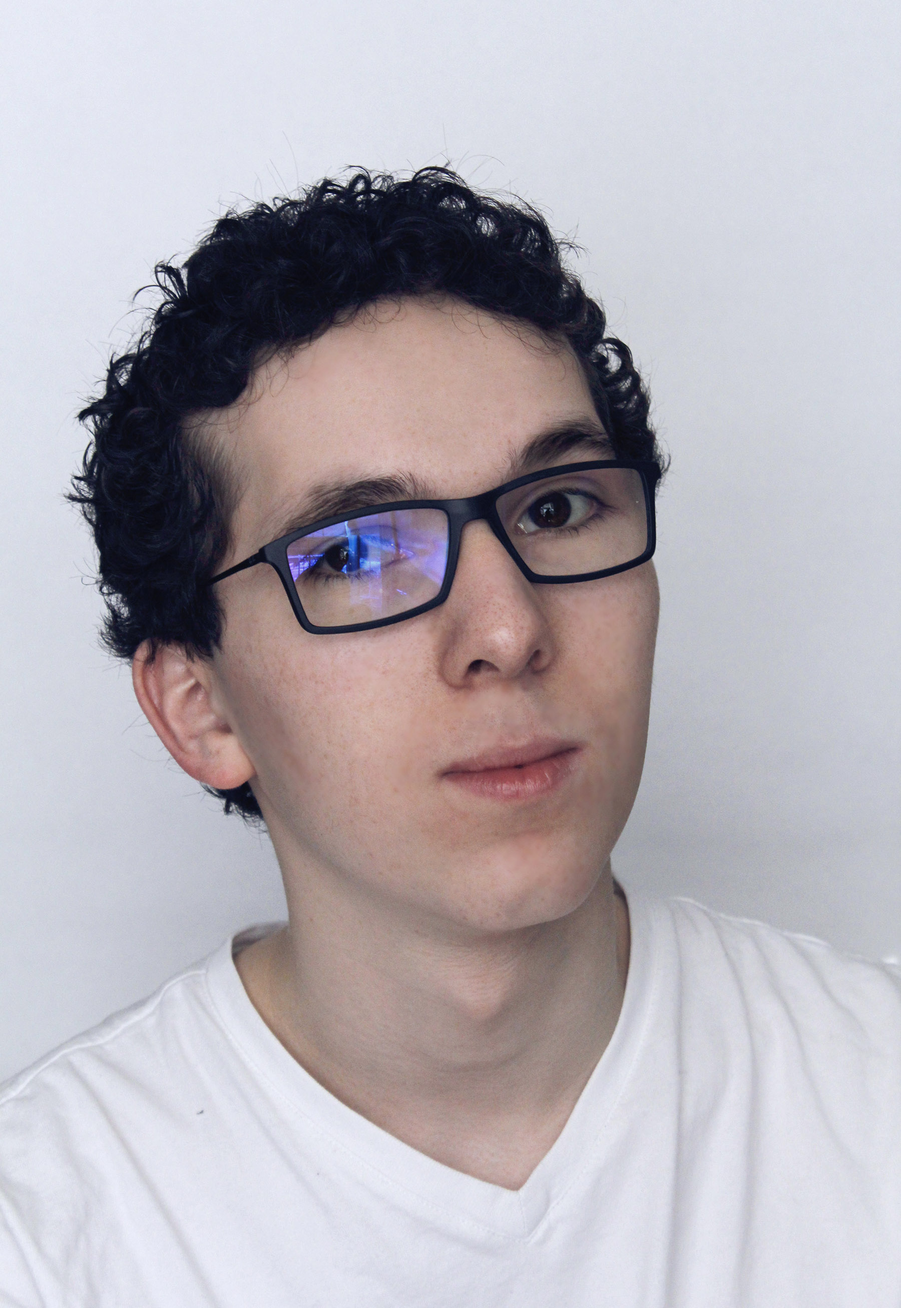
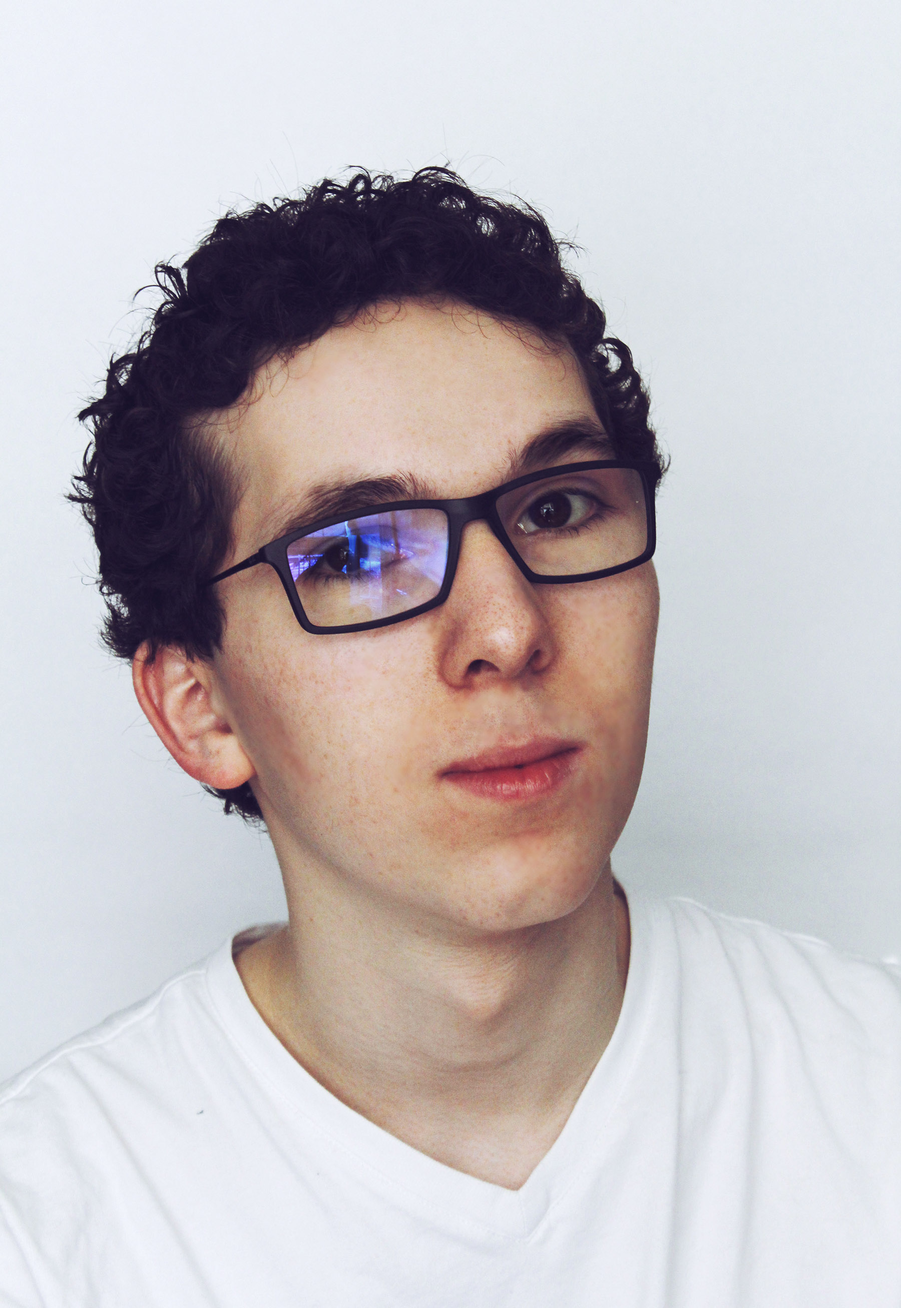
Commit 35
Change portrait photo. Fix background image on high pixel density
displays. Fix popup scrolling on phone landscape mode. Fix text reflow in
footer on small displays. Layout tweaks.

diff --git a/about.html b/about.html
@@ -67,8 +67,8 @@
                 <aside class="page-content-aside">
                     <picture><source srcset="img/portrait/portrait.jpg, img/portrait/portrait-3x.jpg 2x" /><img class="page-content-aside-portrait" src="img/portrait/portrait.jpg" alt="portrait" /></picture>
                     <section class="page-content-aside-contact">
-                        E: <a class="page-content-aside-contact-detail page-content-aside-contact-detail_encrypt-unicode" href="&#109;&#97;&#105;&#108;&#116;&#111;&#58;&#105;&#115;&#97;&#97;&#99;&#46;&#109;&#97;&#105;&#108;&#97;&#99;&#104;&#64;&#103;&#109;&#97;&#105;&#108;&#46;&#99;&#111;&#109;">&#105;&#115;&#97;&#97;&#99;&#46;&#109;&#97;&#105;&#108;&#97;&#99;&#104;&#64;&#103;&#109;&#97;&#105;&#108;&#46;&#99;&#111;&#109;</a><br />
-                        T: <a class="page-content-aside-contact-detail page-content-aside-contact-detail_encrypt" href="&#116;&#101;&#108;&#58;&#43;&#49;&#54;&#52;&#55;&#51;&#48;&#51;&#51;&#51;&#49;&#48;">&#48;&#49;&#51;&#51;&#45;&#51;&#48;&#51;&#32;&#40;&#55;&#52;&#54;&#41;</a>
+                        E: <a class="page-content-aside-contact-detail" href="&#109;&#97;&#105;&#108;&#116;&#111;&#58;&#105;&#115;&#97;&#97;&#99;&#46;&#109;&#97;&#105;&#108;&#97;&#99;&#104;&#64;&#103;&#109;&#97;&#105;&#108;&#46;&#99;&#111;&#109;">&#105;&#115;&#97;<span style="display: none;">email</span>&#97;&#99;&#46;&#109;&#97;&#105;&#108;&#97;&#99;&#104;&#64;&#103;<span style="display: none;">email</span>&#109;&#97;&#105;&#108;&#46;&#99;&#111;&#109;<span style="display: none;">email</span></a><br />
+                        T: <a class="page-content-aside-contact-detail" href="&#116;&#101;&#108;&#58;&#43;&#49;&#54;&#52;&#55;&#51;&#48;&#51;&#51;&#51;&#49;&#48;">&#40;&#54;&#52;&#55;&#41;<span style="display: none;">telephone</span>&#32;&#51;&#48;&#51;&#45;&#51;<span style="display: none;">telephone</span>&#51;&#49;&#48;</a>
                     </section>
                 </aside>
                 <section class="page-content-about">
@@ -81,8 +81,8 @@
                 <nav class="page-footer-nav">
                     <a class="page-footer-nav-link" href="index.html">Musical Compositions</a>
                     <a class="page-footer-nav-link" href="about.html">About</a>
-                    <div class="page-footer-nav-logo">IM</div>
                 </nav>
+                <h3 class="page-footer-logo">IM</h3>
                 <p class="page-footer-text">Copyright &copy; Isaac Mailach</p>
             </footer>
         </div>

diff --git a/css/global.css b/css/global.css
@@ -158,22 +158,33 @@ a {
     position: relative;
     text-align: center;
 }
+.page-footer-logo {
+    bottom: 50px;
+    font-size: 2.5rem;
+    font-weight: 400;
+    left: 0;
+    margin: 0;
+    position: absolute;
+    right: 0;
+}
 .page-footer-nav {
     font-size: 1.05rem;
-    line-height: 75px;
+    line-height: 25px;
+    left: 0;
+    margin: 0;
+    position: absolute;
+    right: 0;
+    top: 50px;
 }
 .page-footer-nav-link {
     margin: 12px;
     text-transform: uppercase;
 }
-.page-footer-nav-logo {
-    font-size: 2.5rem;
-}
 .page-footer-text {
-    bottom: 0;
+    bottom: 20px;
     font-size: 0.9rem;
     left: 0;
-    margin: 0 0 20px 0;
+    margin: 0;
     opacity: 0.5;
     position: absolute;
     right: 0;
@@ -442,12 +453,12 @@ a {
     /*transition: margin 0.27s cubic-bezier(0.4, 0, 0.2, 1);*/
 }
 
-@media (min-width: 700px) and (-webkit-min-device-pixel-ratio: 2), (min-resolution: 192dpi), (min-resolution: 2dppx) { 
+@media (min-width: 700px) and ((-webkit-min-device-pixel-ratio: 2), (min-resolution: 192dpi), (min-resolution: 2dppx)) { 
     body {
         background-image: url('../img/background/background-3x.png');
     }
 }
-@media (max-width: 700px) and (-webkit-min-device-pixel-ratio: 2), (min-resolution: 192dpi), (min-resolution: 2dppx) {
+@media (max-width: 700px) and ((-webkit-min-device-pixel-ratio: 2), (min-resolution: 192dpi), (min-resolution: 2dppx)) {
     body {
         background-image: url('../img/background/background-small-3x.png');
     }
@@ -503,12 +514,12 @@ a {
         padding: 0;
     }
     .open .popup-content {
-        height: 100%;
+        min-height: 100%;
     }
 }
 @media (max-width: 725px) {
     .page-content {
-        padding: 50px 5px 200px 5px;
+        padding: 50px 5px 100px 5px;
     }
     .page-content-grid-item {
         flex-shrink: 1 !important;

diff --git a/index.html b/index.html
@@ -78,8 +78,8 @@
                 <nav class="page-footer-nav">
                     <a class="page-footer-nav-link" href="index.html">Musical Compositions</a>
                     <a class="page-footer-nav-link" href="about.html">About</a>
-                    <div class="page-footer-nav-logo">IM</div>
                 </nav>
+                <h3 class="page-footer-logo">IM</h3>
                 <p class="page-footer-text">Copyright &copy; Isaac Mailach</p>
             </footer>
         </div>
